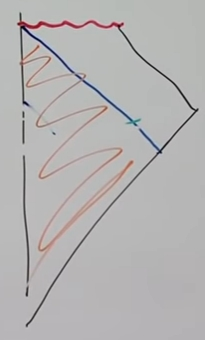
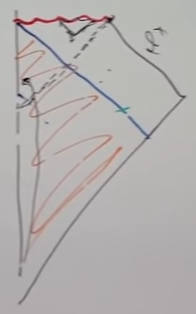
Issue #7 lecture 8 complete

diff --git a/tm/gr.tex b/tm/gr.tex
@@ -1680,12 +1680,28 @@ Each of Figures \ref{fig:gr-8-newton} and \ref{fig:gr-8-sch-exterior} is correct
 
 \begin{figure}[H]
 	\begin{center}
-		\caption{Black hole formed by incoming radiation shell}\label{fig:gr-8-newton-shwartzschild}
-		\includegraphics{gr-8-newton-shwartzschild}
+		\caption{Black hole formed by incoming radiation shell. }
+		\begin{subfigure}[t]{0.45\textwidth}
+			\caption{The dotted line represents the event horizon in the top right of the picture. Anything inside is doomed, including anyone in flat space at the left, despite the fact that the radiation hasn't got there yet.}\label{fig:gr-8-newton-shwartzschild}
+			\includegraphics[width=\textwidth]{gr-8-newton-shwartzschild}
+		\end{subfigure}
+		\begin{subfigure}[t]{0.45\textwidth}
+			\caption{Infalling shell outside the event horizon. Once it crosses the event horizon (the intersection of blue line and dotted line of Figure \ref{fig:gr-8-newton-shwartzschild}) it has passed the point of no return.}\label{fig:gr-8-infalling-shell}
+			\includegraphics[width=\textwidth]{gr-8-infalling-shell}
+		\end{subfigure}
 	\end{center}
 \end{figure}
 
-\url{https://youtu.be/q6j180O9H84?list=PLpGHT1n4-mAvcXwzOIz3dHnGZaQP1LEib&t=3377}
+The event horizon forms before shell gets there! See Figure \ref{fig:gr-8-instants-of-time}. The horizon is immaterial--nobody notices passing it--but you move from being able to escape to being unable.
+
+\begin{figure}[H]
+	\begin{center}
+		\caption[The event horizon forms before shell gets there!]{An instant of time makes sense only if we have a coordinate system. Each green line represents a spacelike surface; each one corresponds to one instant of time in some coordinate system. The lowest dot corresponds to a time when the shell is far away, and no horizon has formed. The next instant corresponds to a time when the shell is still outside the horizon, but there is a small horizon (The horizon grows as the shell moves in). At the following instant the shell crosses its own Schwarzschild radius, and the horizon stops growing. After that it can't get out.}\label{fig:gr-8-instants-of-time}
+		\includegraphics{gr-8-instants-of-time}
+	\end{center}
+\end{figure}
+
+These diagrams faithfully reflect causal behaviour, but they aren't to scale.
 
 \section{Einstein field equations}
 
